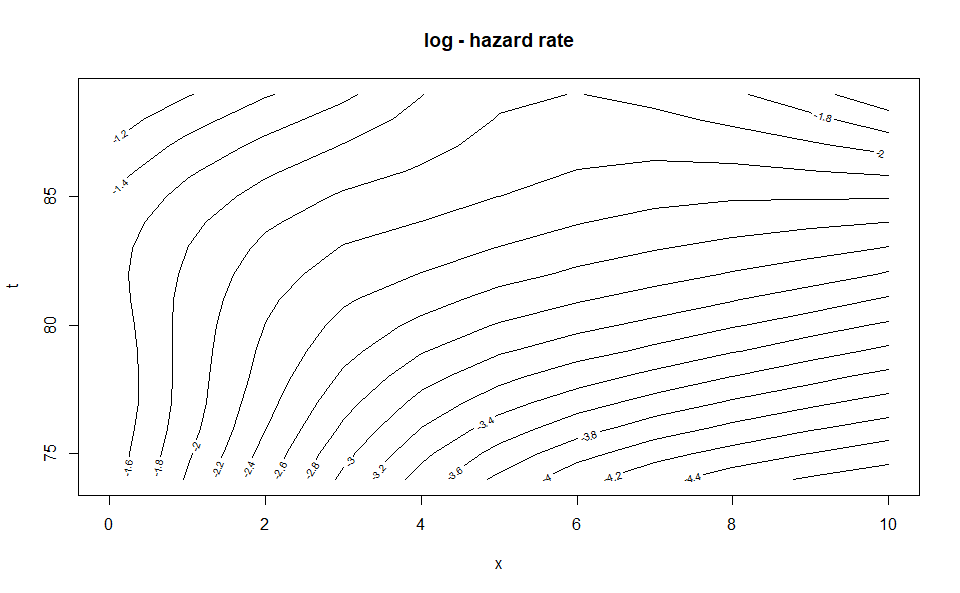
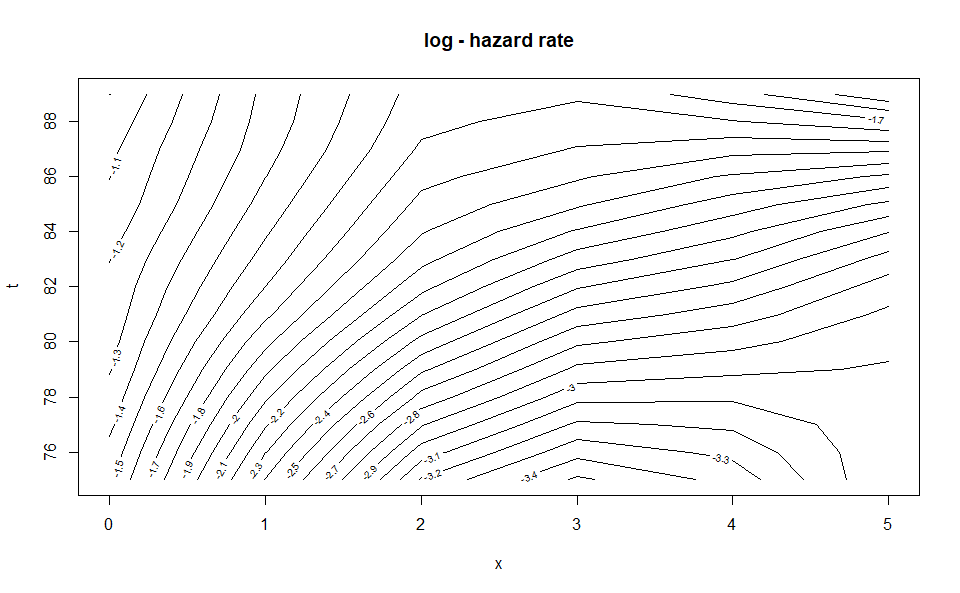
last details for CRAN resubmission

diff --git a/README.md b/README.md
@@ -59,9 +59,8 @@ to use it:
 
 ``` r
 # One-dimensional case
-keep <- which(portfolio_mort$ec > 0)
-d <- portfolio_mort$d[keep]
-ec <- portfolio_mort$ec[keep]
+d <- portfolio_mort$d
+ec <- portfolio_mort$ec
 
 WH_1d_fit <- WH_1d(d, ec)
 Using outer iteration / Brent method
@@ -69,8 +68,8 @@ Using outer iteration / Brent method
 
 ``` r
 # Two-dimensional case
-keep_age <- which(rowSums(portfolio_LTC$ec) > 1e2)
-keep_duration <- which(colSums(portfolio_LTC$ec) > 1e2)
+keep_age <- which(rowSums(portfolio_LTC$ec) > 5e2)
+keep_duration <- which(colSums(portfolio_LTC$ec) > 1e3)
 
 d  <- portfolio_LTC$d[keep_age, keep_duration]
 ec <- portfolio_LTC$ec[keep_age, keep_duration]
@@ -90,15 +89,15 @@ WH_1d_fit
 An object fitted using the WH_1D function
 Initial data contains 74 data points:
   Observation positions:  19  to  92 
-Smoothing parameter selected: 23372 
-Associated degrees of freedom: 4.6 
+Smoothing parameter selected: 13454 
+Associated degrees of freedom: 7.5 
 WH_2d_fit
 An object fitted using the WH_2D function
-Initial data contains 176 data points:
-  First dimension:  74  to  89 
-  Second dimension:  0  to  10 
-Smoothing parameters selected: 126.2   9.4 
-Associated degrees of freedom: 9.2 
+Initial data contains 90 data points:
+  First dimension:  75  to  89 
+  Second dimension:  0  to  5 
+Smoothing parameters selected: 301   2 
+Associated degrees of freedom: 13 
 ```
 
 - The `plot` function generates rough plots of the model fit, the

diff --git a/cran-comments.md b/cran-comments.md
@@ -4,4 +4,4 @@
 
 * This is a new release.
 
-* URL: https://hal.science/hal-04124043 should work as soon as the deposit is approved by HAL.
+* The URL https://hal.science/hal-04124043 in vignette should be working as soon as the deposit has been approved by HAL.
